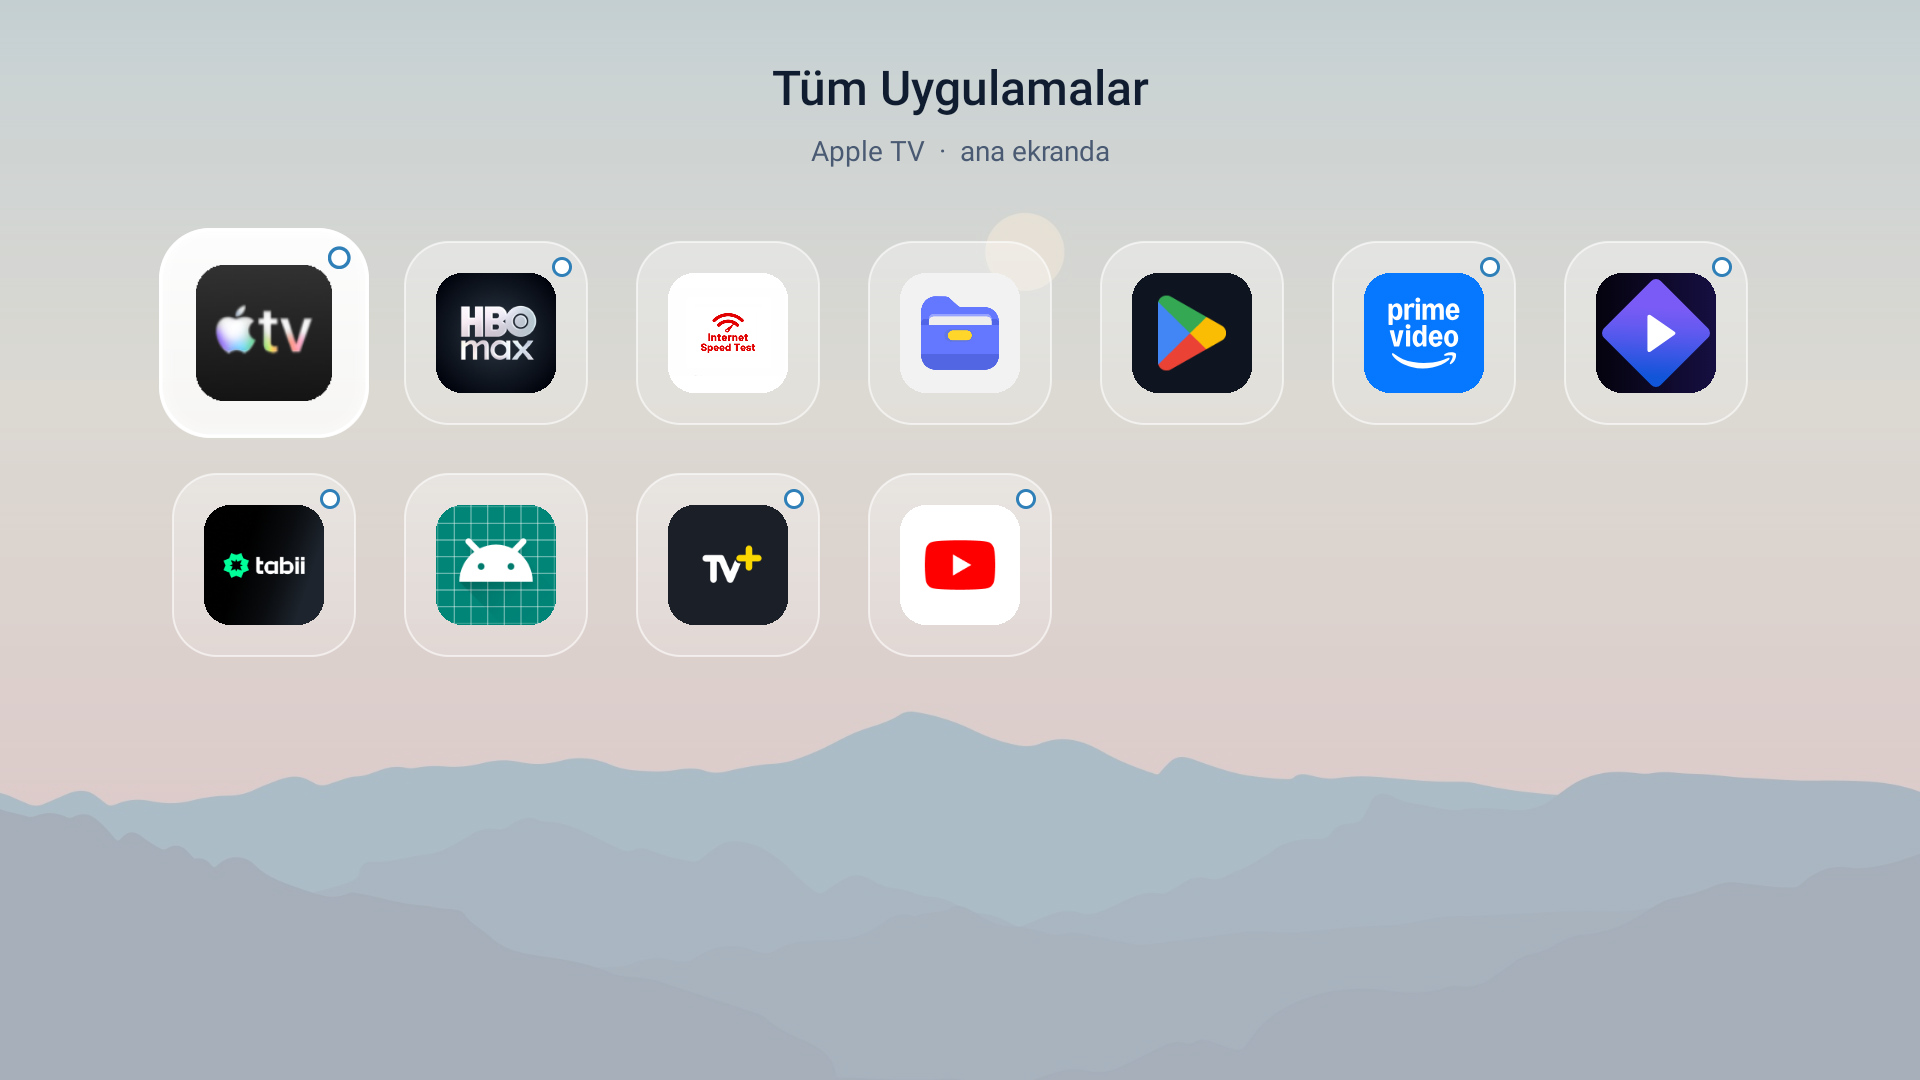
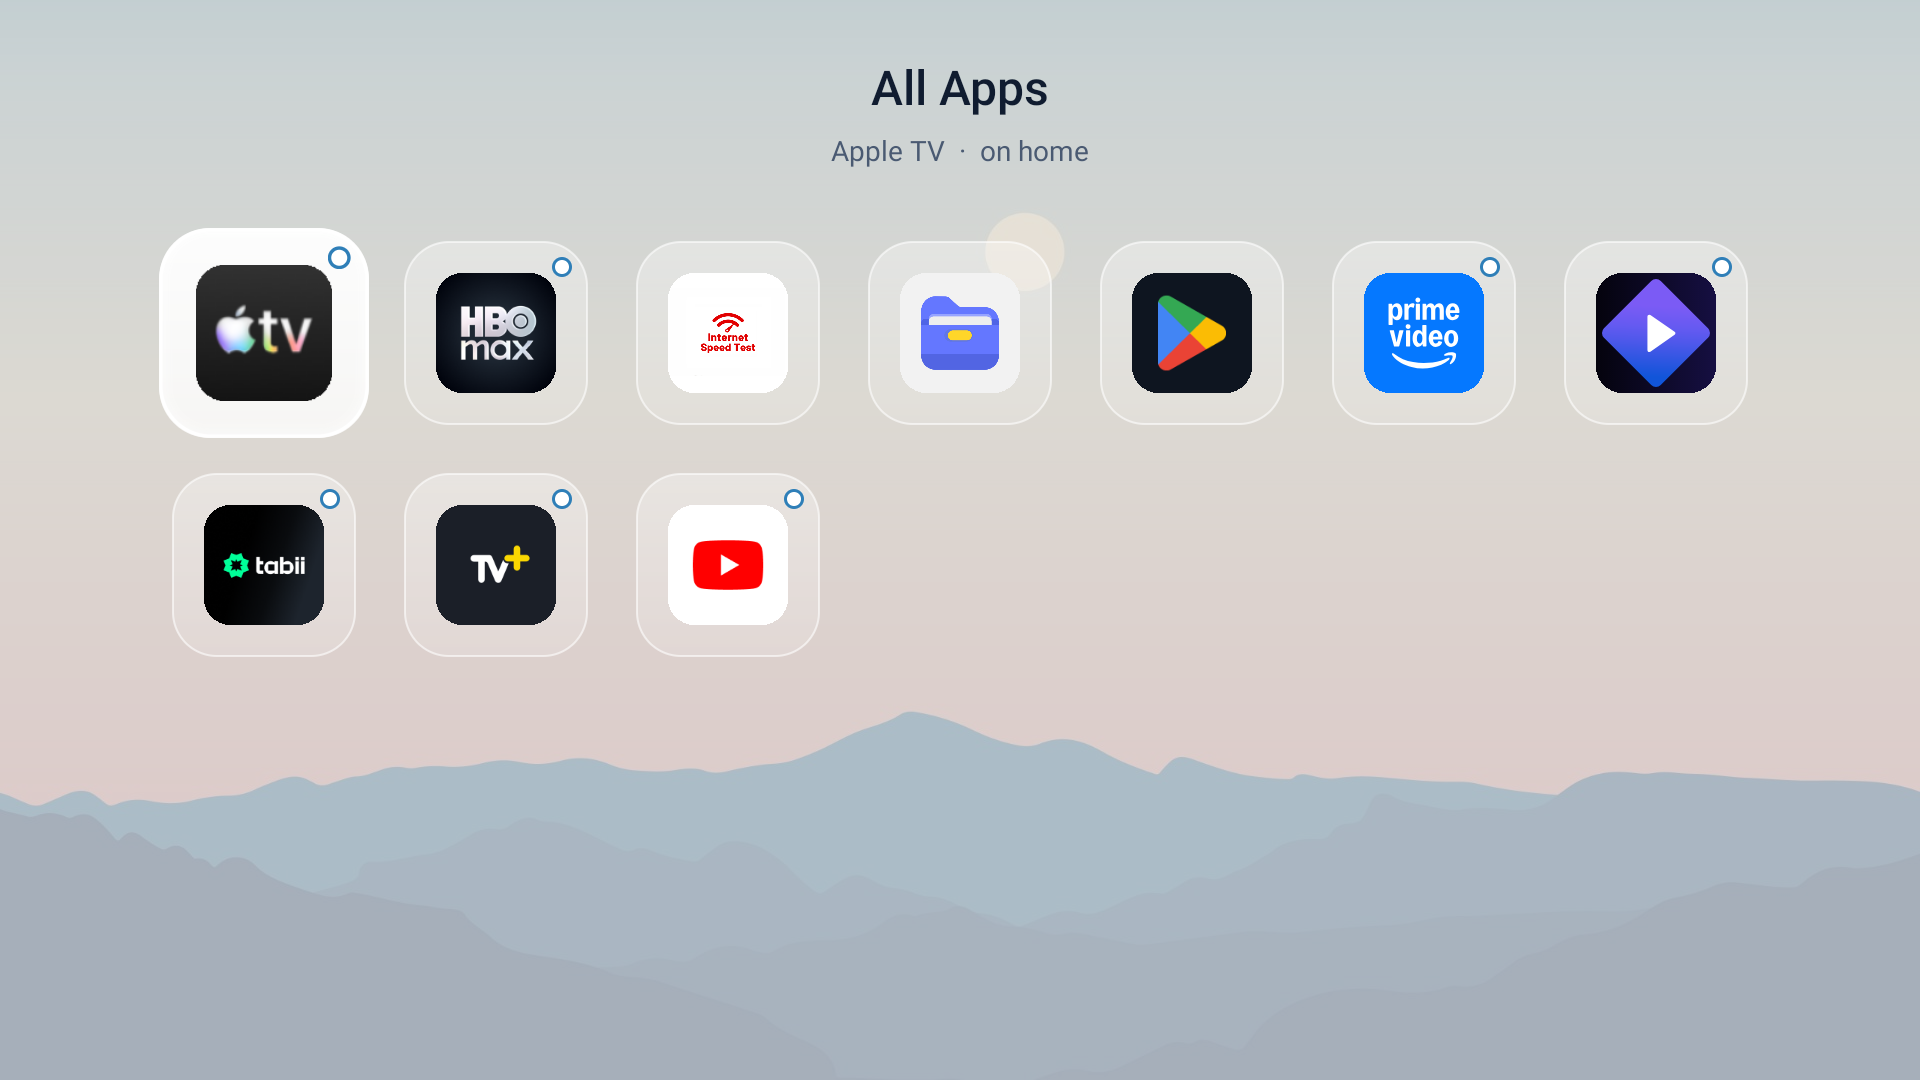
README: screenshots of the English UI
All thirteen screens retaken on the reference box with the TV set to
English, after updating it to v1.3.1 through the in-app updater. The Wi-Fi
name, the box's IP and the transfer PIN are replaced with example values.
Captions follow the English UI.

diff --git a/README.md b/README.md
@@ -39,7 +39,7 @@ Type the IP when asked. When the TV asks, choose **Always allow from this comput
 
 You can run it again at any time. Anything already up to date is skipped.
 
-After that the PC is no longer needed. Updates come from the TV itself: **Kutu Home → ⚙ (top left) → Güncellemeleri denetle**.
+After that the PC is no longer needed. Updates come from the TV itself: **Kutu Home → ⚙ (top left) → Check for updates**.
 
 <details>
 <summary>Türkçe kısa kurulum</summary>
@@ -60,22 +60,24 @@ Everything speaks English and Turkish. The TV apps follow the TV's language, the
 |---|---|---|
 | **Kutu Home** | `local.kutu.home` | Liquid-glass launcher with a centred shelf, focus rings coloured by each app's icon, a light, dark or automatic theme, the Wi-Fi name and the remote's battery under the clock, and a background chosen from your own photos. It has no network permission, no background service and 0 % idle CPU |
 | **Kutu Mirror** | `local.kutu.mirror` | AirPlay receiver named **Kutu**. It mirrors an iPhone, iPad or Mac screen with sound, follows the phone when it rotates, and plays AirPlay Video. It uses hardware H.264 only and holds no wakelock while idle. It never opens its screen from a bare network connection |
-| **Kutu Aktarım** | `local.kutu.transfer` | On-demand, PIN-protected file transfer from any browser on your network. You can upload, download and install APKs. Close the screen and the port closes with it. It also delivers background photos to Kutu Home and installs updates from GitHub Releases |
+| **Kutu Transfer** (Kutu Aktarım) | `local.kutu.transfer` | On-demand, PIN-protected file transfer from any browser on your network. You can upload, download and install APKs. Close the screen and the port closes with it. It also delivers background photos to Kutu Home and installs updates from GitHub Releases |
 
 ## Screens
+
+Shown with the TV set to English; on a Turkish TV every screen is the same in Turkish.
 
 | | |
 |---|---|
 | ![Home, light theme](docs/screenshots/home-light.png) | ![Home, dark theme](docs/screenshots/home-dark.png) |
 | Home: shelf, chips, clock with Wi-Fi name and remote battery | Dark theme, by hand or automatically in the evening |
 | ![Scrolled shelf with page dots](docs/screenshots/home-scrolled.png) | ![Moving a tile](docs/screenshots/move.png) |
-| More apps than the shelf shows: it scrolls by whole tiles, with page dots | Long press → Taşı: ◀ ▶ moves, OK saves, BACK cancels |
+| More apps than the shelf shows: it scrolls by whole tiles, with page dots | Long press → Move: ◀ ▶ moves, OK saves, BACK cancels |
 | ![Tile menu](docs/screenshots/menu-dark.png) | ![All apps](docs/screenshots/allapps.png) |
 | Long-press menu on a home tile | All apps; a dot marks the ones already on the shelf |
 | ![All apps menu](docs/screenshots/allapps-menu.png) | ![Kutu Home settings](docs/screenshots/settings.png) |
-| Adding an app to the home screen | ⚙ settings: theme, background, how many apps the shelf shows, updates |
+| Adding an app to the home screen | ⚙ settings: theme, background, how many apps the shelf shows, updates, versions |
 | ![Settings, dark](docs/screenshots/settings-dark.png) | ![Background picker](docs/screenshots/background.png) |
-| Settings in the dark theme | Background picker: photos sent from a phone through Kutu Aktarım |
+| Settings in the dark theme | Background picker: photos sent from a phone through Kutu Transfer |
 | ![Screen mirroring panel](docs/screenshots/mirror-panel.png) | ![File transfer](docs/screenshots/transfer.png) |
 | Screen mirroring on/off | File transfer session: address and one-time PIN (example values) |
 | ![Updates](docs/screenshots/update.png) | |
@@ -102,7 +104,7 @@ If you **clone the whole repository**, Claude starts from the tested source unde
 | `MIBOX-CLAUDE-MASTER-GUIDE.md` | the build workflow for Claude Code |
 | `build/kutu-home/` | Kutu Home source (plain Java, zero dependencies) |
 | `build/kutu-mirror/` | Kutu Mirror source, a GPL-3.0 fork of [jqssun/android-airplay-server](https://github.com/jqssun/android-airplay-server) |
-| `build/kutu-transfer/` | Kutu Aktarım source (plain Java, zero dependencies) and its page tests |
+| `build/kutu-transfer/` | Kutu Transfer source (plain Java, zero dependencies) and its page tests |
 | `build/assets/kutu-home-background.png` | default wallpaper |
 | `RESTORE-ALL.ps1`, `PROJECT-PACKAGES.txt`, `PRESERVED-PRIOR-DISABLES.txt` | rollback for the reference box |
 | `KUTU-HOME.md`, `KUTU-MIRROR.md`, `KUTU-TRANSFER.md` | build and test records of the reference box |
@@ -124,7 +126,7 @@ Results depend on the device. Don't expect identical numbers on other hardware.
 - The installer's debloat list was checked on a Mi Box S only. On any other box it skips that step and only installs the apps and sets the home screen.
 - Every system-package change is reversible. To undo them, turn USB debugging back on (Kutu Home → Ayarlar → Device Preferences → Developer options) and follow the file the installer saved in `Documents\Kutu\`, or run `RESTORE-ALL.ps1`.
 - If you build your own releases, back up the `keys/` folder somewhere outside the repository. Without it the Kutu apps can never be updated in place.
-- Building Kutu Mirror on Windows requires WSL2 (Ubuntu). Kutu Home and Kutu Aktarım build on Windows directly.
+- Building Kutu Mirror on Windows requires WSL2 (Ubuntu). Kutu Home and Kutu Transfer build on Windows directly.
 
 ## Credits
 
